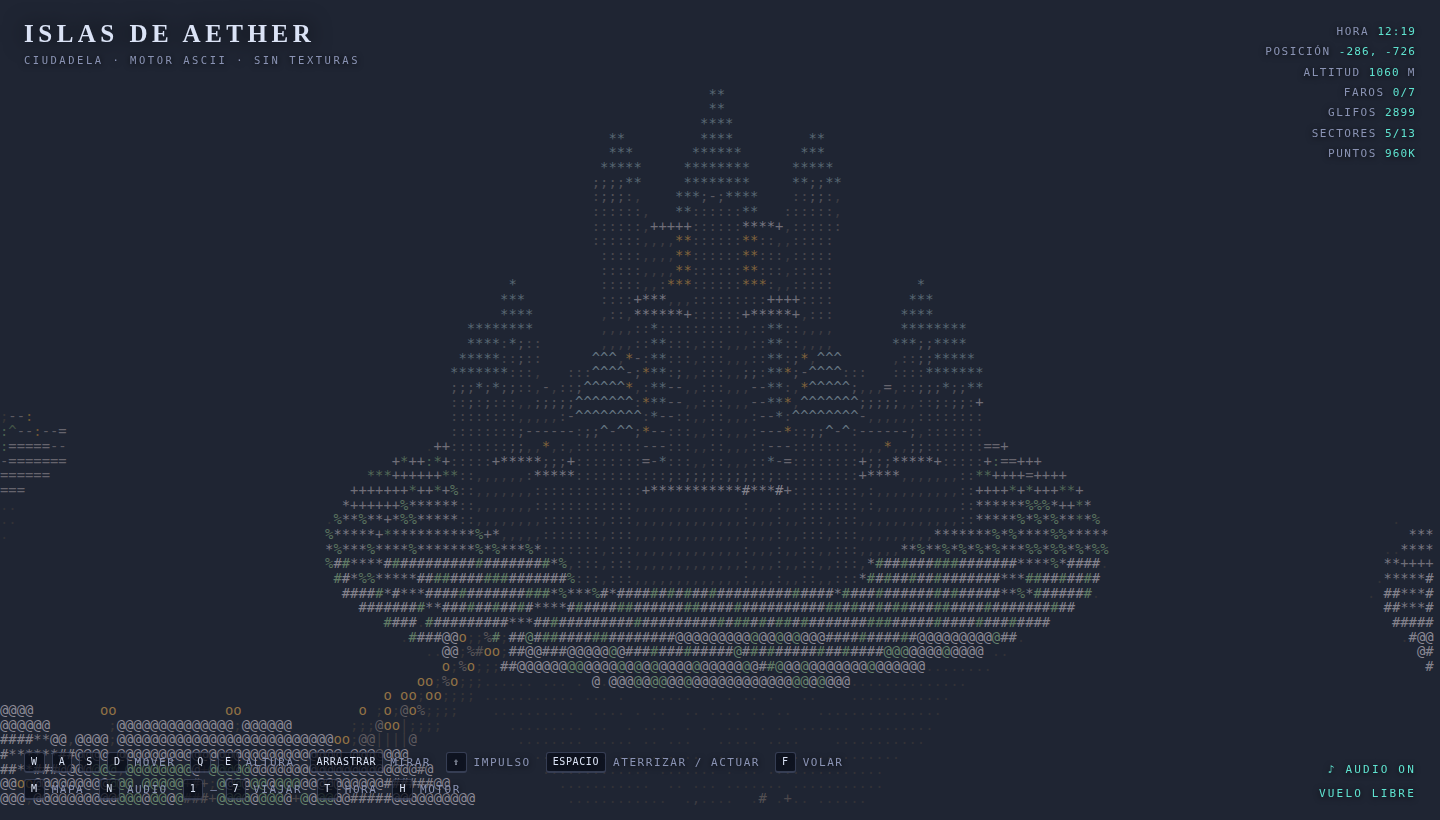
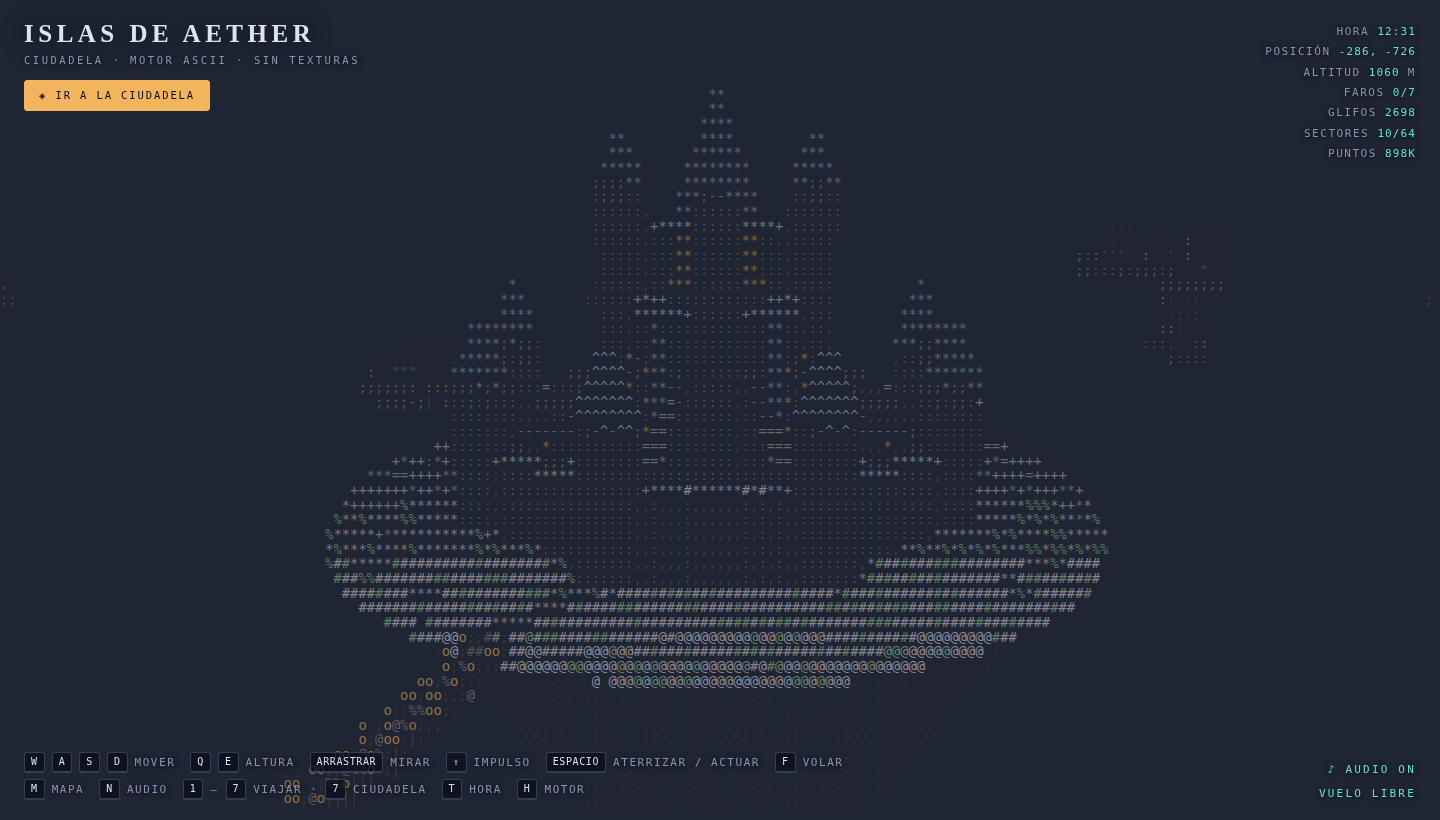
Boton directo a la Ciudadela y tope de rejilla al agrandar la ventana

diff --git a/index.html b/index.html
@@ -37,6 +37,19 @@
   .brand h1{font-family:Cinzel,"Times New Roman",serif;font-size:25px;font-weight:600;letter-spacing:.18em;text-transform:uppercase;color:var(--ink);margin:0;text-shadow:0 0 22px rgba(0,0,0,.85)}
   .brand p{margin:6px 0 0;font-size:10.5px;letter-spacing:.24em;color:var(--dim)}
 
+  /* El botón vive dentro del bloque de marca, que no recibe clics: hay que
+     devolvérselos solo a él. */
+  .brand button{
+    pointer-events:auto;margin-top:14px;display:inline-block;cursor:pointer;
+    border:1px solid rgba(255,198,120,.55);background:rgba(10,14,26,.72);
+    color:var(--ember);font:500 10.5px/1 "IBM Plex Mono",monospace;
+    letter-spacing:.18em;text-transform:uppercase;padding:9px 14px;border-radius:3px;
+    transition:background .2s,color .2s,border-color .2s
+  }
+  .brand button:hover{background:var(--ember);color:#0a0e1a;border-color:var(--ember)}
+  .brand button:active{transform:translateY(1px)}
+  body.touch .brand button{margin-top:10px;padding:8px 11px;font-size:9.5px}
+
   .readout{top:22px;right:24px;text-align:right;font-variant-numeric:tabular-nums;line-height:1.85}
   .readout b{color:var(--aether);font-weight:500;letter-spacing:.1em}
 
@@ -102,6 +115,7 @@
 <div class="hud brand">
   <h1>Islas de Aether</h1>
   <p><span id="reg">Aether</span> · motor ASCII · sin texturas</p>
+  <button id="bCiudadela">◈ Ir a la Ciudadela</button>
 </div>
 
 <div class="hud readout">
@@ -128,7 +142,7 @@
   <span><kbd>F</kbd> volar</span>
   <span><kbd>M</kbd> mapa</span>
   <span><kbd>N</kbd> audio</span>
-  <span><kbd>1</kbd>–<kbd>7</kbd> viajar</span>
+  <span><kbd>1</kbd>–<kbd>7</kbd> viajar · <kbd>7</kbd> ciudadela</span>
   <span><kbd>T</kbd> hora</span>
   <span><kbd>H</kbd> motor</span>
 </div>
@@ -164,7 +178,7 @@
     <li><div><strong>Un mundo sin borde.</strong> No hay mapa fijo: el espacio se divide en sectores de 220 unidades y cada uno se genera cuando te acercas, a partir de <code>hash(sx, sz, semilla)</code>. Las seis regiones con nombre solo suben la densidad donde caen. Los sectores lejanos se desalojan. Con <code>?semilla=</code> en la URL cambias de mundo entero.</div></li>
     <li><div><strong>Todo eso vive en un Worker.</strong> Generación y proyección corren fuera del hilo principal y devuelven la rejilla ya resuelta en buffers transferibles que van y vienen sin copiarse. El hilo principal solo pinta, suena y juega — por eso generar sectores nuevos no da tirones.</div></li>
     <li><div><strong>Caminos que se pueden pisar.</strong> Cada isla tiende un puente a su vecina más cercana del vecindario de nueve sectores. Como las dos hacen la misma cuenta, el par se dibuja una sola vez — lo pone quien tiene la clave menor — y los dos extremos coinciden aunque cada sector nazca en un momento distinto. Al andar, la baranda empuja: sin eso, un tablero de 4,4 de ancho se cruza una vez de cada cinco.</div></li>
-    <li><div><strong>Y se pinta en tiras.</strong> Cada fila agrupa celdas contiguas del mismo color en una cadena y se dibuja de un golpe: de ~10.000 celdas a unos cientos de llamadas.</div></li>
+    <li><div><strong>Y se pinta en tiras, con techo.</strong> Cada fila agrupa celdas contiguas del mismo color en una cadena y se dibuja de un golpe: de ~10.000 celdas a unos cientos de llamadas. Y la rejilla tiene tope: pasado él, al agrandar la ventana el glifo crece en vez de multiplicarse — todo el coste del motor es por celda, así que sin tope maximizar triplicaba el trabajo por fotograma.</div></li>
   </ol>
   <div class="close">Pulsa H para volver al vuelo</div>
 </div>
@@ -828,7 +842,7 @@ function render(msg) {
     flat[a*5] = isl[a].x; flat[a*5+1] = isl[a].y; flat[a*5+2] = isl[a].z;
     flat[a*5+3] = isl[a].r; flat[a*5+4] = isl[a].reg;
   }
-  self.postMessage({ t: "g", z: z, m: m, s: s, isl: flat, brd: flatB,
+  self.postMessage({ t: "g", gen: msg.gen, z: z, m: m, s: s, isl: flat, brd: flatB,
     stats: { sectors: sectors.size, visible: visible, live: live, touched: touched } },
     [z.buffer, m.buffer, s.buffer, flat.buffer, flatB.buffer]);
 }
@@ -883,7 +897,12 @@ self.onmessage = function (e) {
     /* La Ciudadela: una sola isla, cuatro veces mayor que cualquier otra, con
        una fortaleza encima. Piedra fría, verdín en las juntas y luz de hogar en
        las ventanas — el contraste es lo que la hace legible de lejos. */
-    { name:"Ciudadela", sub:"la fortaleza de una sola isla", cx:-120, cz:-560, cy:6, span:250, rMin:60, rMax:78,
+    /* rMin/rMax son el tamaño de las islas *de alrededor*, no el de la
+       fortaleza: esa entra aparte por CITADEL con su radio fijo. Cuando aquí
+       decía 60–78, todo el disco de 287 unidades de la región se llenaba de
+       islas gigantes — de ahí el millón y medio de puntos y que al viajar te
+       encuadrara un peñasco cualquiera creyendo que era el castillo. */
+    { name:"Ciudadela", sub:"la fortaleza de una sola isla", cx:-120, cz:-560, cy:6, span:250, rMin:10, rMax:26,
       flora:"dead", houses:false, spires:0, glow:{2:0.8,3:0.55},
       skyNight:[7,7,12], skyDay:[34,38,50],
       mats:[[142,140,152],[104,132,110],[176,206,226],[255,198,120],[176,196,214],[214,120,120],[224,228,240],[96,92,96]] }
@@ -940,34 +959,72 @@ self.onmessage = function (e) {
   const ctx = canvas.getContext("2d", { alpha: false });
   let cols = 0, rows = 0, cellW = 8, cellH = 13, focal = 1, focalY = 1, fs = 12, halfFov = 0.9;
   const FAR = 560;
-  let bufs = [], cur = null, free = null, pending = false;
+  let bufs = [], cur = null, free = null, pending = false, gen = 0;
   let islandsFlat = new Float32Array(0), bridgesFlat = new Float32Array(0), stats = { sectors: 0, visible: 0, live: 0, touched: 0 };
 
   function makeSet() {
     return { z: new Float32Array(cols * rows), m: new Uint8Array(cols * rows), s: new Uint8Array(cols * rows) };
   }
+  /* Techo de celdas.
+
+     Sin él, la rejilla crece con la ventana sin freno: a 1280 son ~10.000
+     celdas y en una pantalla ancha pasan de 25.000. Todo el coste del motor
+     —proyección, z-buffer, tiras de texto— es por celda, así que agrandar la
+     ventana triplicaba el trabajo por fotograma. Ahora, pasado el tope, el
+     glifo crece en vez de multiplicarse: se ve igual de bien y cuesta lo
+     mismo. */
+  const MAXCELLS = coarse ? 9000 : 17000;
+  let curDpr = 1;
+
   function resize() {
-    const w = innerWidth, h = innerHeight, dpr = Math.min(devicePixelRatio || 1, 2);
+    const w = innerWidth, h = innerHeight;
+    /* En pantallas grandes el canvas ya es enorme en CSS; duplicarlo además
+       por densidad multiplica por cuatro los píxeles que hay que rellenar con
+       texto, que es justo lo que se atragantaba al maximizar. */
+    const dpr = Math.min(devicePixelRatio || 1, w >= 2000 ? 1.25 : w >= 1500 ? 1.5 : 2);
+
+    let f = coarse ? clamp(w / 58, 9, 16) : clamp(w / 104, 8, 15);
+    const minF = Math.sqrt((w * h) / (0.636 * MAXCELLS));
+    if (minF > f) f = minF;
+
+    ctx.font = '500 ' + f.toFixed(2) + 'px "IBM Plex Mono", ui-monospace, monospace';
+    ctx.textBaseline = "top";
+    const cw = ctx.measureText("M").width || f * 0.6, ch = f * 1.06;
+    const nc = Math.max(20, Math.floor(w / cw)), nr = Math.max(12, Math.floor(h / ch));
+
+    // Nada que rehacer: no tocar los buffers ni cortar lo que va en vuelo.
+    if (nc === cols && nr === rows && dpr === curDpr && cur) {
+      canvas.width = Math.round(w * dpr); canvas.height = Math.round(h * dpr);
+      ctx.setTransform(dpr, 0, 0, dpr, 0, 0);
+      ctx.font = '500 ' + f.toFixed(2) + 'px "IBM Plex Mono", ui-monospace, monospace';
+      ctx.textBaseline = "top";
+      return;
+    }
+
+    fs = f; cellW = cw; cellH = ch; cols = nc; rows = nr; curDpr = dpr;
     canvas.width = Math.round(w * dpr); canvas.height = Math.round(h * dpr);
     ctx.setTransform(dpr, 0, 0, dpr, 0, 0);
-    fs = coarse ? clamp(w / 58, 9, 16) : clamp(w / 104, 8, 15);
     ctx.font = '500 ' + fs.toFixed(2) + 'px "IBM Plex Mono", ui-monospace, monospace';
     ctx.textBaseline = "top";
-    cellW = ctx.measureText("M").width || fs * 0.6;
-    cellH = fs * 1.06;
-    cols = Math.max(20, Math.floor(w / cellW));
-    rows = Math.max(12, Math.floor(h / cellH));
     focal = (cols / 2) / Math.tan(0.55);
     focalY = focal * (cellW / cellH);
     halfFov = Math.atan(Math.hypot(Math.tan(0.55), (rows / 2) / focalY)) + 0.14;
+    gen++;                       // lo que vuelva del worker con otra medida se tira
     cur = makeSet(); free = makeSet(); pending = false;
   }
-  addEventListener("resize", resize);
+  /* Arrastrar el borde de una ventana dispara `resize` sesenta veces por
+     segundo. Reasignar tres buffers en cada uno —y cortar la petición que
+     estaba en vuelo— es exactamente el tirón que se siente al maximizar. */
+  let resizeT = 0;
+  addEventListener("resize", () => {
+    clearTimeout(resizeT);
+    resizeT = setTimeout(resize, 130);
+  });
 
   worker.onmessage = (e) => {
     const d = e.data;
     if (d.t !== "g") return;
-    if (d.z.length !== cols * rows) { pending = false; return; }   // llegó de un tamaño viejo
+    if (d.gen !== gen || d.z.length !== cols * rows) { pending = false; return; }  // de una medida ya vieja
     free = cur;
     cur = { z: d.z, m: d.m, s: d.s };
     islandsFlat = d.isl; bridgesFlat = d.brd || bridgesFlat; stats = d.stats;
@@ -1009,9 +1066,19 @@ self.onmessage = function (e) {
      tamaño equivocados. Se reintenta el encuadre unos segundos, y se abandona
      en cuanto tocas los mandos. */
   let reencuadre = -1, reencuadreT = 0;
-  function travel(i) {
+  /* No vale cualquier isla: hay que esperar a una del tamaño que esa región
+     promete. Si no, al viajar a la Ciudadela te encuadraba el primer peñasco
+     de los Confines que hubiera entrado en memoria y te dejaba a trescientas
+     unidades de la fortaleza, mirando a otro lado. */
+  function destinoDe(i) {
     const R = REGIONS[i];
     const T = bigIslandNear(R.cx, R.cz, 240);
+    const minR = i === CITADEL.reg ? CITADEL.r * 0.7 : R.rMin * 0.8;
+    return T && T.r >= minR ? T : null;
+  }
+  function travel(i) {
+    const R = REGIONS[i];
+    const T = destinoDe(i);
     reencuadre = T ? -1 : i; reencuadreT = t;
     const bx = T ? T.x : R.cx, by = T ? T.y : R.cy, bz = T ? T.z : R.cz;
     /* La distancia sale del tamaño de la isla: la Ciudadela mide 78 de radio y
@@ -1284,6 +1351,13 @@ self.onmessage = function (e) {
     $("bBaja").addEventListener("touchstart", () => keys["q"] = true, { passive: true });
     $("bBaja").addEventListener("touchend", () => keys["q"] = false);
   }
+  /* Un botón, no solo una tecla: la Ciudadela es lo más vistoso del mundo y
+     estaba escondida detrás de un "7" que nadie adivina. */
+  $("bCiudadela").addEventListener("click", () => {
+    startAudio();
+    mapOpen = false; $("mapwrap").hidden = true;
+    travel(NREG - 1);
+  });
   $("mapwrap").addEventListener("click", e => { if (e.target.id === "mapwrap") { mapOpen = false; $("mapwrap").hidden = true; } });
 
   /* ================= DINÁMICOS ================= */
@@ -1472,8 +1546,8 @@ self.onmessage = function (e) {
 
     if (reencuadre >= 0) {
       const tocado = keys["w"] || keys["a"] || keys["s"] || keys["d"] || keys["q"] || keys["e"] || stick.active;
-      if (tocado || t - reencuadreT > 6) reencuadre = -1;
-      else if (bigIslandNear(REGIONS[reencuadre].cx, REGIONS[reencuadre].cz, 240)) travel(reencuadre);
+      if (tocado || t - reencuadreT > 14) reencuadre = -1;
+      else if (destinoDe(reencuadre)) travel(reencuadre);
     }
 
     /* --- pedir la rejilla al worker --- */
@@ -1482,7 +1556,7 @@ self.onmessage = function (e) {
       const z = free.z, m = free.m, s = free.s;
       free = null;
       worker.postMessage({
-        t: "f", cam: [cam.x, cam.y, cam.z], yaw: cam.yaw, pitch: cam.pitch,
+        t: "f", gen, cam: [cam.x, cam.y, cam.z], yaw: cam.yaw, pitch: cam.pitch,
         cols, rows, focal, focalY, far: FAR, halfFov,
         mul: MUL, emissive: EMI, sun: lightDir, amb, skyLight,
         z, m, s
@@ -1732,7 +1806,7 @@ self.onmessage = function (e) {
       if (!pending && free) {
         pending = true;
         const z = free.z, m = free.m, s = free.s; free = null;
-        worker.postMessage({ t: "f", cam: [cam.x, cam.y, cam.z], yaw: cam.yaw, pitch: cam.pitch,
+        worker.postMessage({ t: "f", gen, cam: [cam.x, cam.y, cam.z], yaw: cam.yaw, pitch: cam.pitch,
           cols, rows, focal, focalY, far: FAR, halfFov, mul: MUL, emissive: EMI,
           sun: [0.4, 0.8, -0.45], amb: 0.8, skyLight: 0.7, z, m, s }, [z.buffer, m.buffer, s.buffer]);
       }

diff --git a/README.md b/README.md
@@ -33,7 +33,7 @@ Un mundo de fantasía **sin borde**, renderizado enteramente con caracteres. Sin
 | `espacio` | Aterrizar · saltar · encender faro |
 | `F` | Volver a volar |
 | `M` | Mapa |
-| `1`–`7` | Viajar a una región |
+| `1`–`7` | Viajar a una región (`7` = la Ciudadela, o el botón de arriba a la izquierda) |
 | `T` | Adelantar la hora |
 | `N` | Audio |
 | `H` | Cómo funciona el motor |
